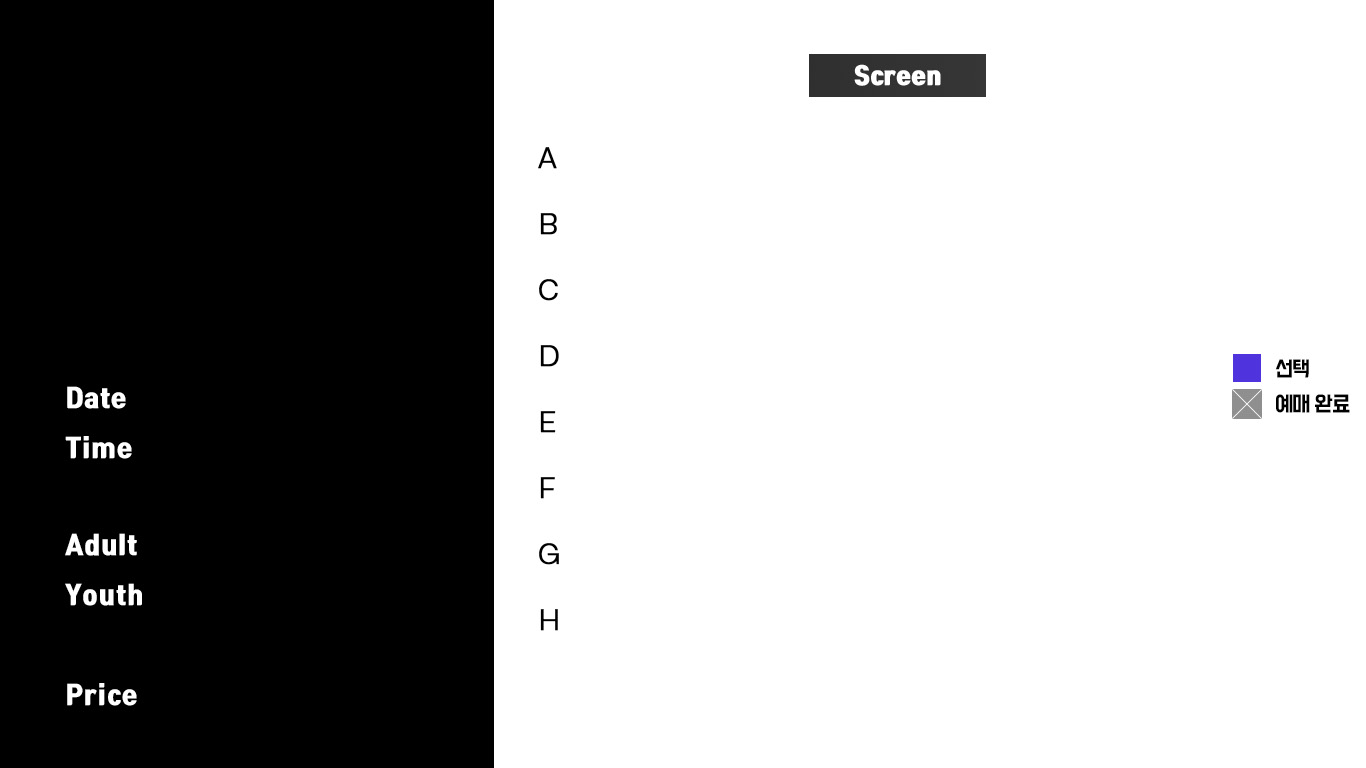
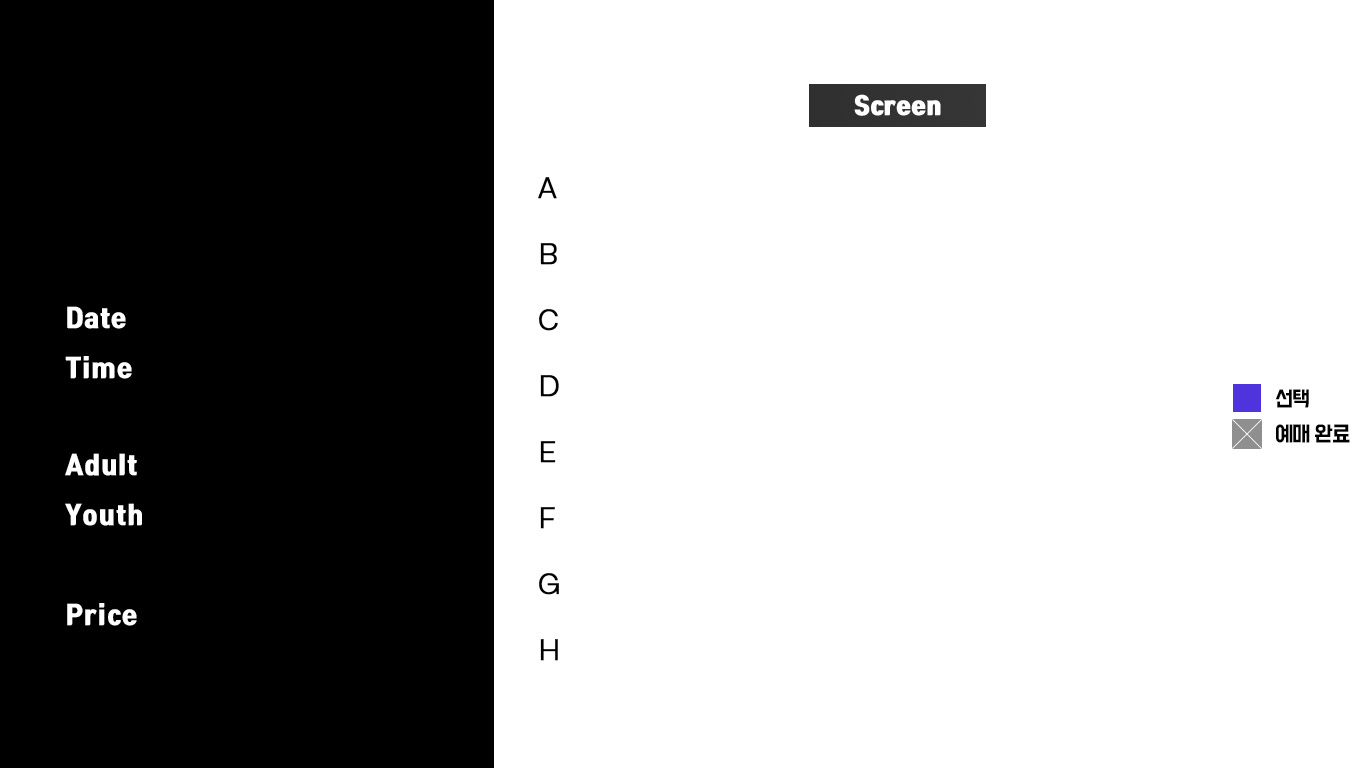
seatFrame 위치 수정

diff --git a/GUI/src/seatFrame.java b/GUI/src/seatFrame.java
@@ -8,6 +8,7 @@ import javax.swing.JButton;
 import javax.swing.JToggleButton;
 import javax.swing.JFrame;
 import javax.swing.JLabel;
+import javax.swing.JOptionPane;
 import javax.swing.JPanel;
 import javax.swing.border.EmptyBorder;
 import java.awt.event.ActionEvent;
@@ -42,64 +43,7 @@ public class seatFrame extends javax.swing.JFrame {
         button_x = 574;
         button_y = 135;
         icon = new ImageIcon("./image/bg_seatFrame.jpg");
-        ImageIcon backBtn = new ImageIcon("./image/btn/back_btn.png");
 
-        contentPane = new JPanel() {
-            public void paintComponent(Graphics g) {
-                g.drawImage(icon.getImage(), 0, 0, null);
-                g.drawImage(my.getsmallIcon().getImage(),133,30,null);
-                //my.getIcon().paintIcon(this, g, 133, 30);
-                setOpaque(false); //그림을 표시하게 설정,투명하게 조절
-                super.paintComponent(g);
-            }
-        };
-        contentPane.setBorder(new EmptyBorder(5, 5, 5, 5));
-        setContentPane(contentPane);
-        contentPane.setLayout(null);
-
-        JButton backButton = new JButton(backBtn); // 뒤로가기 버튼
-        backButton.setBounds(1245, 10, 85, 85);
-        backButton.setBorderPainted(false);
-        backButton.setFocusPainted(false);
-        backButton.setBackground(Color.WHITE);
-        contentPane.add(backButton);
-        backButton.addActionListener(new ActionListener() { // mainFrame으로 이
-			public void actionPerformed(ActionEvent e) {
-				reserveFrame m = new reserveFrame(my);
-				m.setVisible(true);
-				dispose();
-			}
-		});
-
-        // 추가해야함
-        JLabel dateLabel = new JLabel(date);
-        JLabel timeLabel = new JLabel(time);
-        JLabel adultC = new JLabel(adultCount+"");
-        JLabel youthC = new JLabel(youthCount+"");
-        JLabel price = new JLabel(adultCount*13000+youthCount*10000+"");
-        dateLabel.setBounds(160,340,200,100);
-        timeLabel.setBounds(160,390,200,100);
-        
-        adultC.setBounds(160,500,200,100);
-        youthC.setBounds(160,550,200,100);
-
-        price.setBounds(160,630,200,100);
-        contentPane.add(dateLabel);
-        contentPane.add(timeLabel);
-        contentPane.add(adultC);
-        contentPane.add(youthC);
-        contentPane.add(price);
-
-        JButton reserveBtn = new JButton("예약하기");
-        reserveBtn.addActionListener( new ActionListener(){
-            public void actionPerformed(ActionEvent e) {
-                payFrame s = new payFrame(my);
-				s.setVisible(true);
-				dispose();
-            }
-        });
-        reserveBtn.setBounds(300, 560, 100, 100);
-        contentPane.add(reserveBtn);
         //버튼 배치  
         JToggleButton[][] jb = new JToggleButton[10][8];
         for(int i=0;i<10;i++) {
@@ -148,7 +92,79 @@ public class seatFrame extends javax.swing.JFrame {
     @SuppressWarnings("unchecked")
     // <editor-fold defaultstate="collapsed" desc="Generated Code">//GEN-BEGIN:initComponents
     private void initComponents() {
+        contentPane = new JPanel() {
+            public void paintComponent(Graphics g) {
+                g.drawImage(icon.getImage(), 0, 0, null);
+                g.drawImage(my.getsmallIcon().getImage(),170,30,null);
+                //my.getIcon().paintIcon(this, g, 133, 30);
+                setOpaque(false); //그림을 표시하게 설정,투명하게 조절
+                super.paintComponent(g);
+            }
+        };
+        contentPane.setBorder(new EmptyBorder(5, 5, 5, 5));
+        setContentPane(contentPane);
+        contentPane.setLayout(null);
 
+        JButton backButton = new JButton(new ImageIcon("./image/btn/back_btn.png")); // 뒤로가기 버튼
+        backButton.setBounds(1245, 10, 85, 85);
+        backButton.setBorderPainted(false);
+        backButton.setFocusPainted(false);
+        backButton.setBackground(Color.WHITE);
+        contentPane.add(backButton);
+        backButton.addActionListener(new ActionListener() { // mainFrame으로 이
+			public void actionPerformed(ActionEvent e) {
+				reserveFrame m = new reserveFrame(my);
+				m.setVisible(true);
+				dispose();
+			}
+		});
+
+        // 추가해야함
+        JLabel dateLabel = new JLabel(date);
+        JLabel timeLabel = new JLabel(time);
+        JLabel adultC = new JLabel(adultCount+"");
+        JLabel youthC = new JLabel(youthCount+"");
+        JLabel price = new JLabel(adultCount*13000+youthCount*10000+"");
+        dateLabel.setBounds(160,265,200,100);
+        timeLabel.setBounds(160,316,200,100);
+        adultC.setBounds(160,412,200,100);
+        youthC.setBounds(160,461,200,100);
+        price.setBounds(160,563,200,100);
+
+        dateLabel.setForeground(Color.white);
+        dateLabel.setFont(dateLabel.getFont().deriveFont(35.0F));
+        timeLabel.setForeground(Color.white);
+        timeLabel.setFont(timeLabel.getFont().deriveFont(35.0F));
+        adultC.setForeground(Color.white);
+        adultC.setFont(adultC.getFont().deriveFont(35.0F));
+        youthC.setForeground(Color.white);
+        youthC.setFont(youthC.getFont().deriveFont(35.0F));
+        price.setForeground(Color.white);
+        price.setFont(price.getFont().deriveFont(35.0F));
+
+        contentPane.add(dateLabel);
+        contentPane.add(timeLabel);
+        contentPane.add(adultC);
+        contentPane.add(youthC);
+        contentPane.add(price);
+
+        JButton reserveBtn = new JButton(new ImageIcon("./image/seat2.jpg"));
+        reserveBtn.setRolloverIcon(new ImageIcon("./image/seat1.jpg"));
+        reserveBtn.addActionListener( new ActionListener(){
+            public void actionPerformed(ActionEvent e) {
+                if(choice!=count){
+                    JOptionPane.showMessageDialog(null, "선택하신 좌석의 수가 올바르지 않습니다.");
+                    return;
+                }
+                else{
+                    payFrame s = new payFrame(my);
+                    s.setVisible(true);
+                    dispose();
+                }
+            }
+        });
+        reserveBtn.setBounds(85, 650, 327, 68);
+        contentPane.add(reserveBtn);
         setDefaultCloseOperation(javax.swing.WindowConstants.EXIT_ON_CLOSE);
         setCursor(new java.awt.Cursor(java.awt.Cursor.DEFAULT_CURSOR));
         setMaximumSize(new java.awt.Dimension(1366, 768));

diff --git a/GUI/src/user.java b/GUI/src/user.java
@@ -20,7 +20,7 @@ public class user {
     }
     public ImageIcon getsmallIcon() {
         Image img=poster.getImage();
-		Image resizedImage = img.getScaledInstance(230, 328, java.awt.Image.SCALE_SMOOTH);
+		Image resizedImage = img.getScaledInstance(160, 240, java.awt.Image.SCALE_SMOOTH);
 		return new ImageIcon(resizedImage);
 	}
     public String getDate(){
